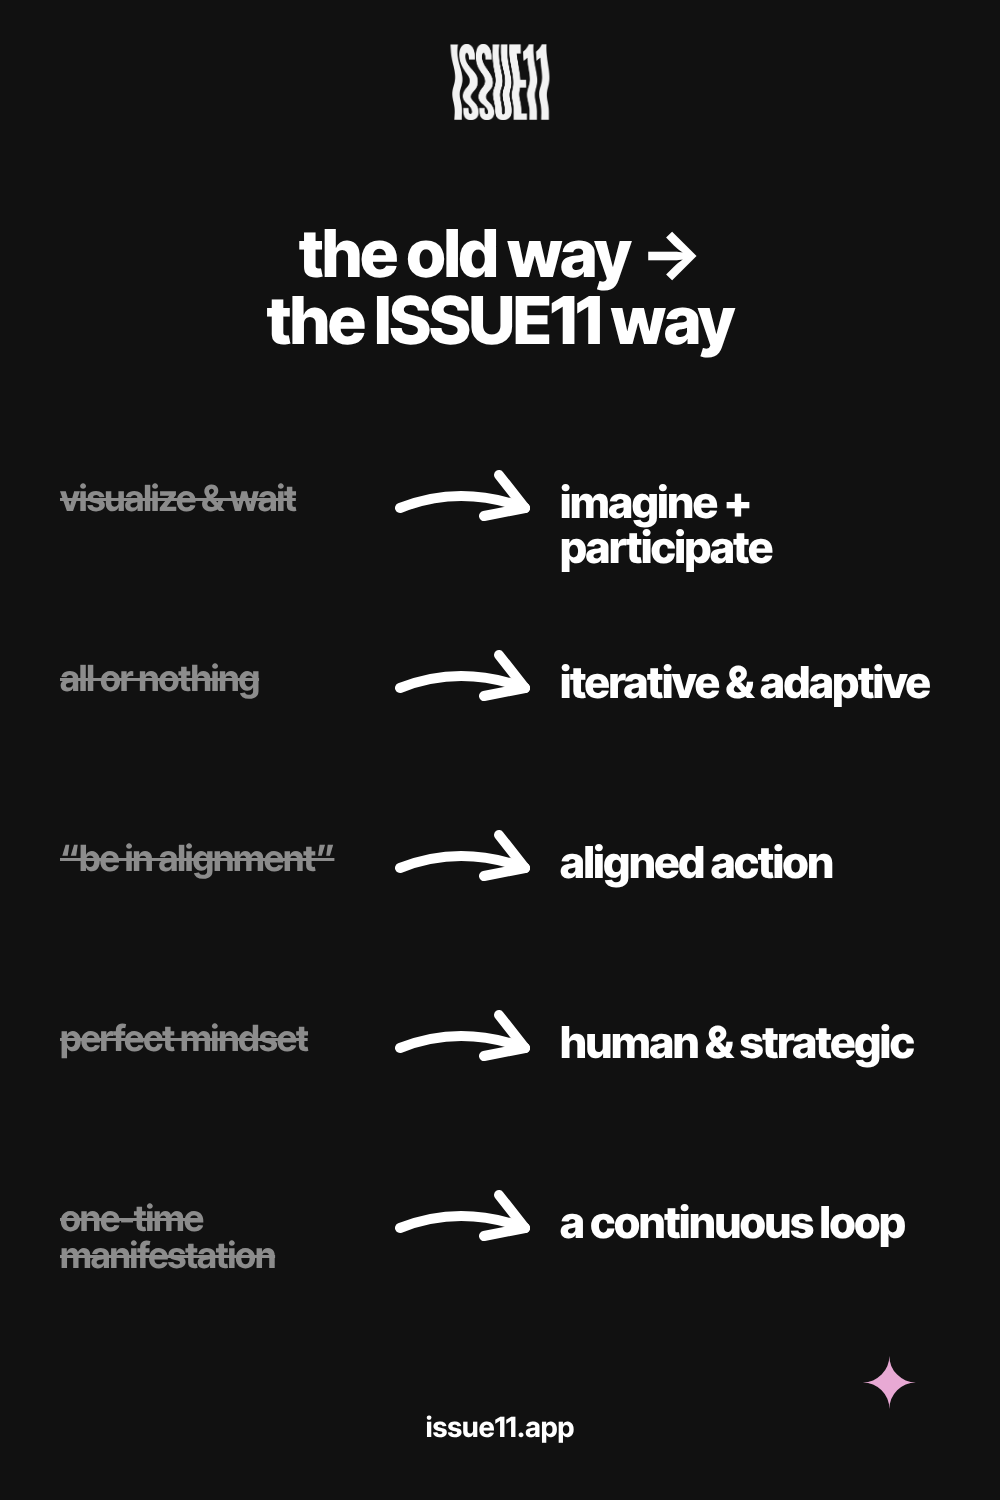
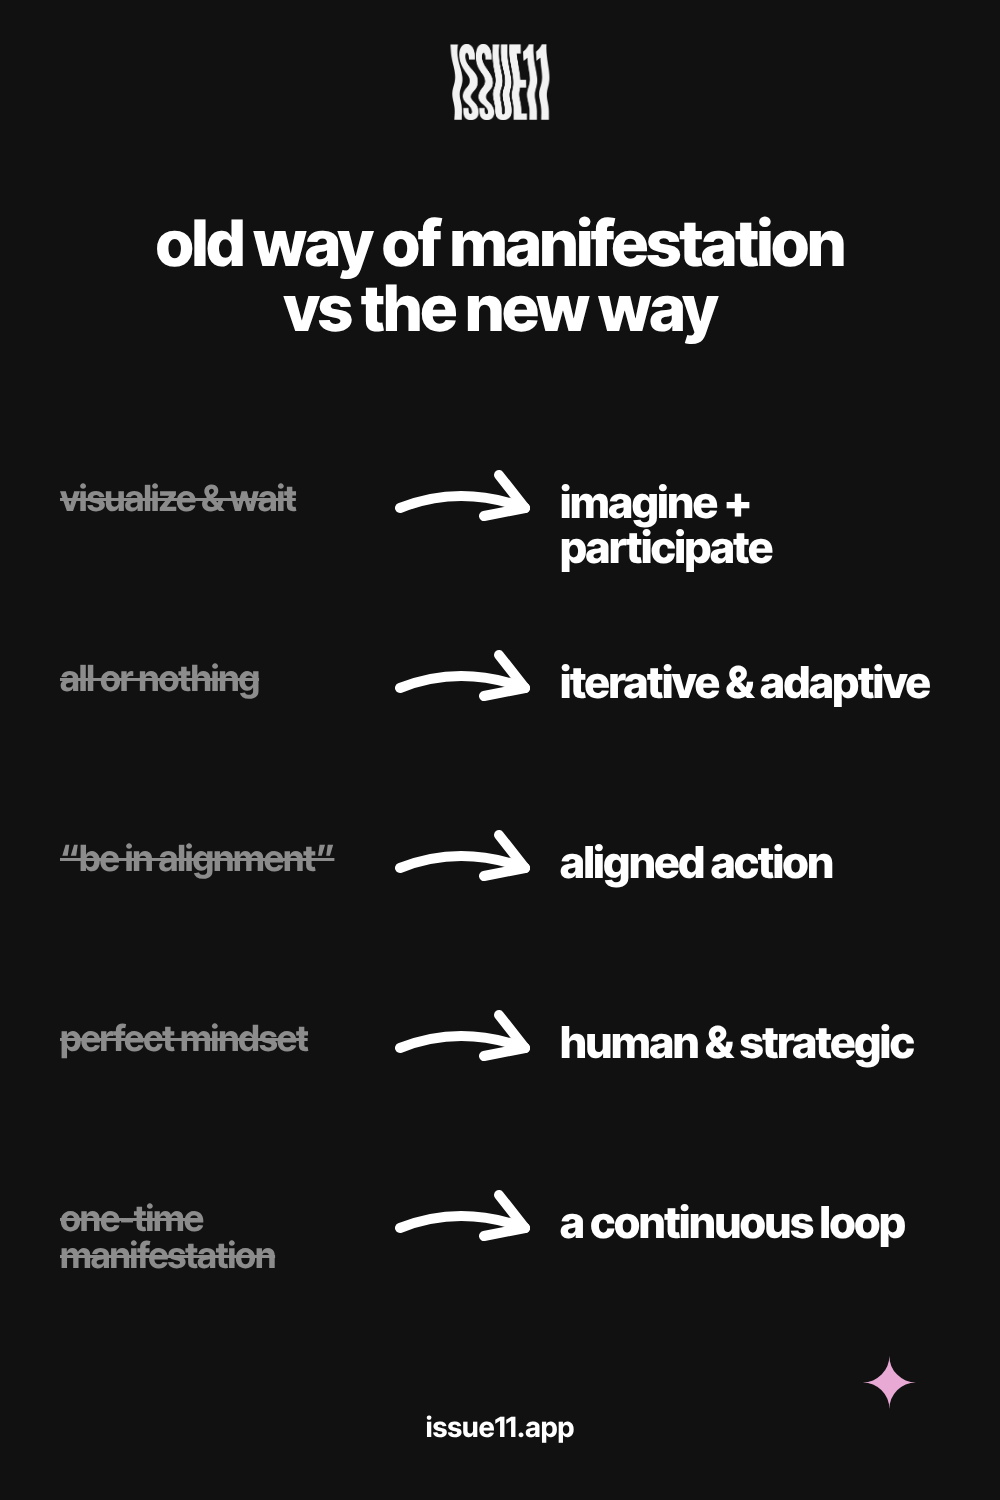
Pinterest: NG1 title per Megan (old way of manifestation vs the new way)
Claude-Session: https://claude.ai/code/session_01YGtmQppBCBt9nypMHzxSp1

Changed region(s): [[0.155, 0.1227, 0.868, 0.2453]]

diff --git a/drafts/pinterest/color-test/NG1.dc.html b/drafts/pinterest/color-test/NG1.dc.html
@@ -25,7 +25,7 @@ img.f{position:absolute;object-fit:cover;display:block}
 </style>
 </helmet>
 <div class="pin">
-<img class="tl w" src="/_blob/d196614efc6265e2205729134fb523b8" alt="ISSUE11"><svg viewBox="0 0 1000 1500" style="position:absolute;inset:0"><g fill="none" stroke="#fff" stroke-width="10" stroke-linecap="round" stroke-linejoin="round"><path d="M400 508 Q460 484 525 508"/><path d="M525 508 L484 516"/><path d="M525 508 L499 475"/><path d="M400 688 Q460 664 525 688"/><path d="M525 688 L484 696"/><path d="M525 688 L499 655"/><path d="M400 868 Q460 844 525 868"/><path d="M525 868 L484 876"/><path d="M525 868 L499 835"/><path d="M400 1048 Q460 1024 525 1048"/><path d="M525 1048 L484 1056"/><path d="M525 1048 L499 1015"/><path d="M400 1228 Q460 1204 525 1228"/><path d="M525 1228 L484 1236"/><path d="M525 1228 L499 1195"/></g></svg><div style="position:absolute;left:50px;width:900px;top:220px;text-align:center;font-weight:800;font-size:66px;letter-spacing:-.03em;line-height:1.02;color:#fff;">the old way →<br>the ISSUE11 way</div><div style="position:absolute;left:60px;width:330px;top:480px;text-align:left;font-weight:700;font-size:36px;letter-spacing:-.03em;line-height:1.02;color:#8C8C8C;text-decoration:line-through;text-decoration-thickness:3px">visualize &amp; wait</div><div style="position:absolute;left:560px;width:400px;top:480px;text-align:left;font-weight:800;font-size:44px;letter-spacing:-.03em;line-height:1.02;color:#fff;">imagine + participate</div><div style="position:absolute;left:60px;width:330px;top:660px;text-align:left;font-weight:700;font-size:36px;letter-spacing:-.03em;line-height:1.02;color:#8C8C8C;text-decoration:line-through;text-decoration-thickness:3px">all or nothing</div><div style="position:absolute;left:560px;width:400px;top:660px;text-align:left;font-weight:800;font-size:44px;letter-spacing:-.03em;line-height:1.02;color:#fff;">iterative &amp; adaptive</div><div style="position:absolute;left:60px;width:330px;top:840px;text-align:left;font-weight:700;font-size:36px;letter-spacing:-.03em;line-height:1.02;color:#8C8C8C;text-decoration:line-through;text-decoration-thickness:3px">“be in alignment”</div><div style="position:absolute;left:560px;width:400px;top:840px;text-align:left;font-weight:800;font-size:44px;letter-spacing:-.03em;line-height:1.02;color:#fff;">aligned action</div><div style="position:absolute;left:60px;width:330px;top:1020px;text-align:left;font-weight:700;font-size:36px;letter-spacing:-.03em;line-height:1.02;color:#8C8C8C;text-decoration:line-through;text-decoration-thickness:3px">perfect mindset</div><div style="position:absolute;left:560px;width:400px;top:1020px;text-align:left;font-weight:800;font-size:44px;letter-spacing:-.03em;line-height:1.02;color:#fff;">human &amp; strategic</div><div style="position:absolute;left:60px;width:330px;top:1200px;text-align:left;font-weight:700;font-size:36px;letter-spacing:-.03em;line-height:1.02;color:#8C8C8C;text-decoration:line-through;text-decoration-thickness:3px">one-time manifestation</div><div style="position:absolute;left:560px;width:400px;top:1200px;text-align:left;font-weight:800;font-size:44px;letter-spacing:-.03em;line-height:1.02;color:#fff;">a continuous loop</div><div style="position:absolute;left:860px;top:1340px;color:#E8A9D4;font-size:70px">✦</div><div class="url" style="color:#fff">issue11.app</div>
+<img class="tl w" src="/_blob/d196614efc6265e2205729134fb523b8" alt="ISSUE11"><svg viewBox="0 0 1000 1500" style="position:absolute;inset:0"><g fill="none" stroke="#fff" stroke-width="10" stroke-linecap="round" stroke-linejoin="round"><path d="M400 508 Q460 484 525 508"/><path d="M525 508 L484 516"/><path d="M525 508 L499 475"/><path d="M400 688 Q460 664 525 688"/><path d="M525 688 L484 696"/><path d="M525 688 L499 655"/><path d="M400 868 Q460 844 525 868"/><path d="M525 868 L484 876"/><path d="M525 868 L499 835"/><path d="M400 1048 Q460 1024 525 1048"/><path d="M525 1048 L484 1056"/><path d="M525 1048 L499 1015"/><path d="M400 1228 Q460 1204 525 1228"/><path d="M525 1228 L484 1236"/><path d="M525 1228 L499 1195"/></g></svg><div style="position:absolute;left:50px;width:900px;top:210px;text-align:center;font-weight:800;font-size:64px;letter-spacing:-.03em;line-height:1.02;color:#fff;">old way of manifestation<br>vs the new way</div><div style="position:absolute;left:60px;width:330px;top:480px;text-align:left;font-weight:700;font-size:36px;letter-spacing:-.03em;line-height:1.02;color:#8C8C8C;text-decoration:line-through;text-decoration-thickness:3px">visualize &amp; wait</div><div style="position:absolute;left:560px;width:400px;top:480px;text-align:left;font-weight:800;font-size:44px;letter-spacing:-.03em;line-height:1.02;color:#fff;">imagine + participate</div><div style="position:absolute;left:60px;width:330px;top:660px;text-align:left;font-weight:700;font-size:36px;letter-spacing:-.03em;line-height:1.02;color:#8C8C8C;text-decoration:line-through;text-decoration-thickness:3px">all or nothing</div><div style="position:absolute;left:560px;width:400px;top:660px;text-align:left;font-weight:800;font-size:44px;letter-spacing:-.03em;line-height:1.02;color:#fff;">iterative &amp; adaptive</div><div style="position:absolute;left:60px;width:330px;top:840px;text-align:left;font-weight:700;font-size:36px;letter-spacing:-.03em;line-height:1.02;color:#8C8C8C;text-decoration:line-through;text-decoration-thickness:3px">“be in alignment”</div><div style="position:absolute;left:560px;width:400px;top:840px;text-align:left;font-weight:800;font-size:44px;letter-spacing:-.03em;line-height:1.02;color:#fff;">aligned action</div><div style="position:absolute;left:60px;width:330px;top:1020px;text-align:left;font-weight:700;font-size:36px;letter-spacing:-.03em;line-height:1.02;color:#8C8C8C;text-decoration:line-through;text-decoration-thickness:3px">perfect mindset</div><div style="position:absolute;left:560px;width:400px;top:1020px;text-align:left;font-weight:800;font-size:44px;letter-spacing:-.03em;line-height:1.02;color:#fff;">human &amp; strategic</div><div style="position:absolute;left:60px;width:330px;top:1200px;text-align:left;font-weight:700;font-size:36px;letter-spacing:-.03em;line-height:1.02;color:#8C8C8C;text-decoration:line-through;text-decoration-thickness:3px">one-time manifestation</div><div style="position:absolute;left:560px;width:400px;top:1200px;text-align:left;font-weight:800;font-size:44px;letter-spacing:-.03em;line-height:1.02;color:#fff;">a continuous loop</div><div style="position:absolute;left:860px;top:1340px;color:#E8A9D4;font-size:70px">✦</div><div class="url" style="color:#fff">issue11.app</div>
 </div>
 </x-dc>
 <script type="text/x-dc" data-dc-script data-props='{"$preview":{"width":1000,"height":1500}}'>

diff --git a/drafts/pinterest/color-test/graphmix2_gen.py b/drafts/pinterest/color-test/graphmix2_gen.py
@@ -31,7 +31,7 @@ def pin(k,title,dark,body,photo=None,pos='50% 25%',box=(360,560,280,400)):
 TL=lambda t,ink,y=230: w(50,y,t,ink,800,72,'center',width=900)
 # NG1 · old way → ISSUE11 way · black
 old=["visualize &amp; wait","all or nothing","“be in alignment”","perfect mindset","one-time manifestation"]; new=["imagine + participate","iterative &amp; adaptive","aligned action","human &amp; strategic","a continuous loop"]
-b=w(50,220,'the old way →<br>the ISSUE11 way',WH,800,66,'center',width=900); g=''
+b=w(50,210,'old way of manifestation<br>vs the new way',WH,800,64,'center',width=900); g=''  # Megan: "Old way of Manifestation vs the new way"
 for i,(o,n) in enumerate(zip(old,new)):
     y=480+i*180
     b+=w(60,y,o,'#8C8C8C',700,36,width=330,extra='text-decoration:line-through;text-decoration-thickness:3px')+w(560,y,n,WH,800,44,width=400)
